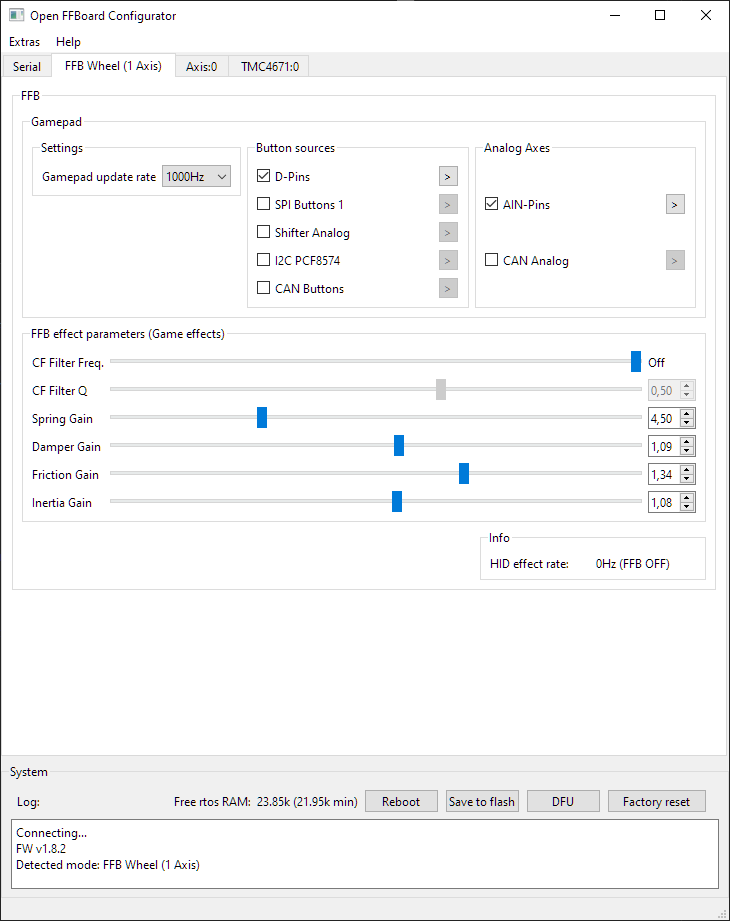
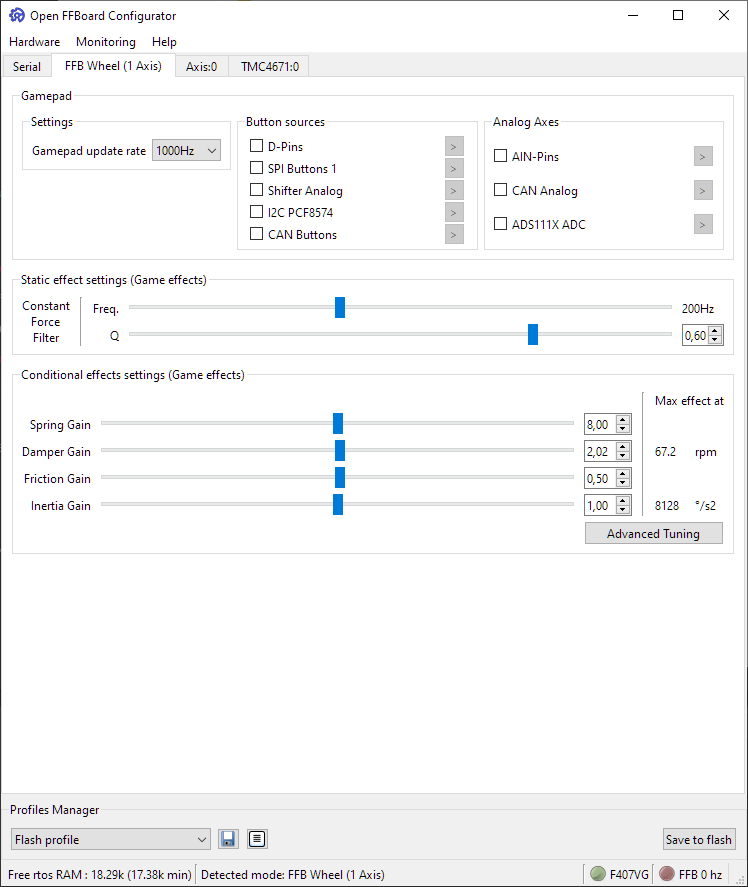
Update for release

diff --git a/dfu_ui.py b/dfu_ui.py
@@ -151,7 +151,7 @@ class DFUModeUI(base_ui.WidgetUI, base_ui.CommunicationHandler):
             self.log("Uploaded!\n")
         except pydfu.DFUException as exception:
             self.log(str(exception))
-            self.log("USB Exception during flashing... Please reflash firmware!\n")
+            self.log("\nUSB Exception during flashing... Please reflash firmware!\n")
         self.uploading = False
         pydfu.exit_dfu()
         self.log("Done. Please reset\n")
@@ -189,7 +189,7 @@ class DFUModeUI(base_ui.WidgetUI, base_ui.CommunicationHandler):
             except pydfu.DFUException as exception:
                 self.progress(0, 100, 100)
                 self.log(str(exception))
-                self.log("USB Exception during erasing... Please reflash firmware!\n")
+                self.log("\nUSB Exception during erasing... Please reflash firmware!\n")
 
     def log(self, txt):
         """Append a message in the displayed log."""

diff --git a/main.py b/main.py
@@ -21,7 +21,7 @@ import PyQt6.QtCore
 import PyQt6.QtGui
 import PyQt6.QtSerialPort
 import PyQt6
-from PyQt6.QtCore import QEventLoop,QThread
+from PyQt6.QtCore import QEventLoop
 import config
 import helper
 

diff --git a/README.md b/README.md
@@ -6,20 +6,9 @@ This allows complete configuration of all settings in the Open FFBoard firmware 
 Requires the latest firmware version most of the time from a matching branch.
 When errors occur hinting at missing commands make sure your firmware and configurator versions are compatible!
 
-
 Be very careful when changing motor types, drivers or the power value.
 
 Incorrect settings may cause unintended movements or damage hardware.
-
-
-
-![FFB Window](screenshots/FFBwheel.png?raw=true)
-
-
-![Axis Window](screenshots/Axispage.png?raw=true)
-
-
-![TMC Window](screenshots/TMC.png?raw=true)
 
 
 ### Installation:
@@ -29,15 +18,31 @@ Then you need to manually install for example the STM VCP driver for the device.
 
 For DFU on windows a libusb compatible driver is required. Use [Zadig](http://zadig.akeo.ie/) to install a winusb driver for the DFU device or install the STM32CubeProgrammer which uses the same driver and can flash the device as well.
 
+#### Running with native Python:
+
+Execute `python main.py` or use the `run.bat`.
+
+A fully executable windows version can be built using pyinstaller and the `build/build.bat` script.
+
+Additionally an automatic build script will create a build artifact for commits on the master branch.
+
+
 #### Dependencies:
 
 PyQt6
 PyQt6-Charts (For TMC graph)
 pyusb and libusb-1.0.dll for DFU
+requests for the release browser
 intelhex for uploading hex files
 
 Install dependencies with `pip install -r requirements.txt` and run `python main.py` to start the application.
 
-A fully executable windows version can be built using pyinstaller and the `build/build.bat` script.
+### Screenshots:
 
-Additionally an automatic build script will create a build artifact for commits on the master branch.
+![FFB Window](screenshots/FFBwheel.png?raw=true)
+
+
+![Axis Window](screenshots/Axispage.png?raw=true)
+
+
+![TMC Window](screenshots/TMC.png?raw=true)

diff --git a/CHANGELOG.md b/CHANGELOG.md
@@ -1,7 +1,10 @@
+### Changes since v1.8:
+
 - Added analog filter option
 - Added ADS111X source dialog
 - Added manual range tuning option for local analog and ADS111X
 - Automatically connects at startup if one supported FFBoard device is found
+- Many small fixes for stability
 
 #### Updater:
 - Added update browser (Help->updates)
@@ -11,6 +14,7 @@
 - Redesigned UI layout
 - Added effect monitoring windows
 - Added advanced effect tuning window
+- Added encoder filter tuning window
 - Added basic profile management system
 - Added encoder gear reduction option (For belt/gear driven wheels if there is a reduction between the wheel and encoder. Prescales all internal positions)
 - Added constant force rate readout
